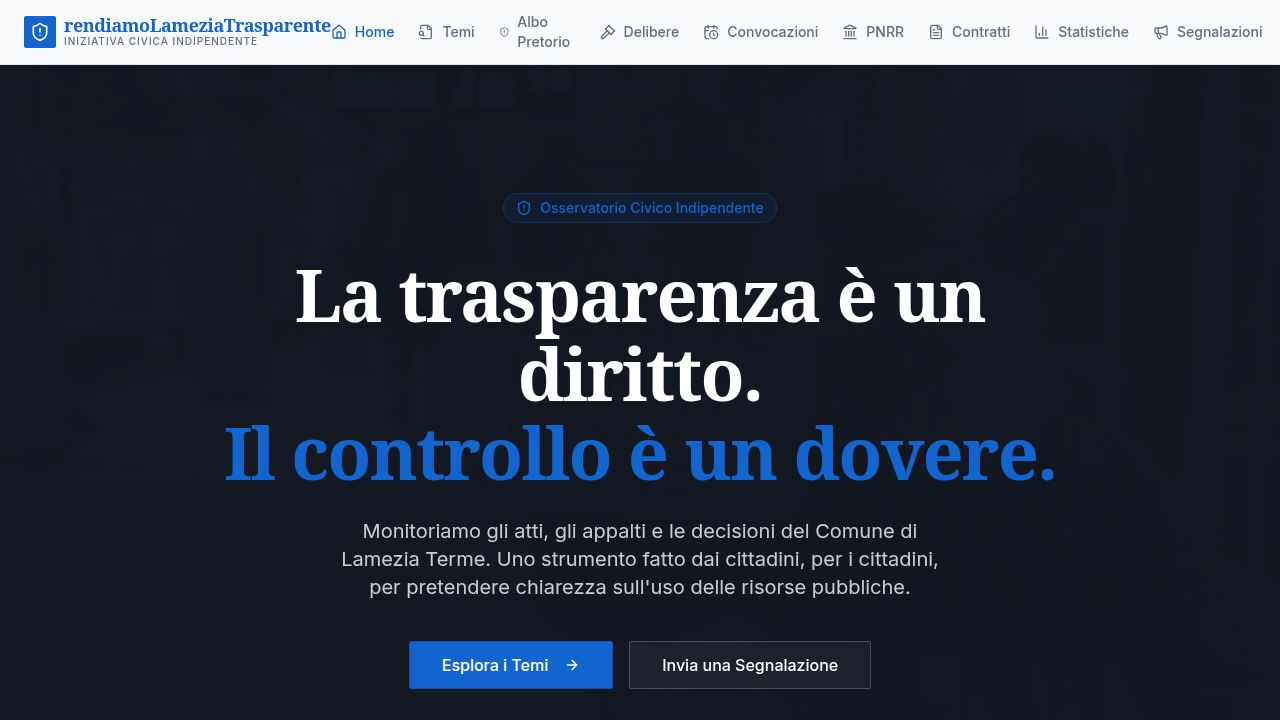
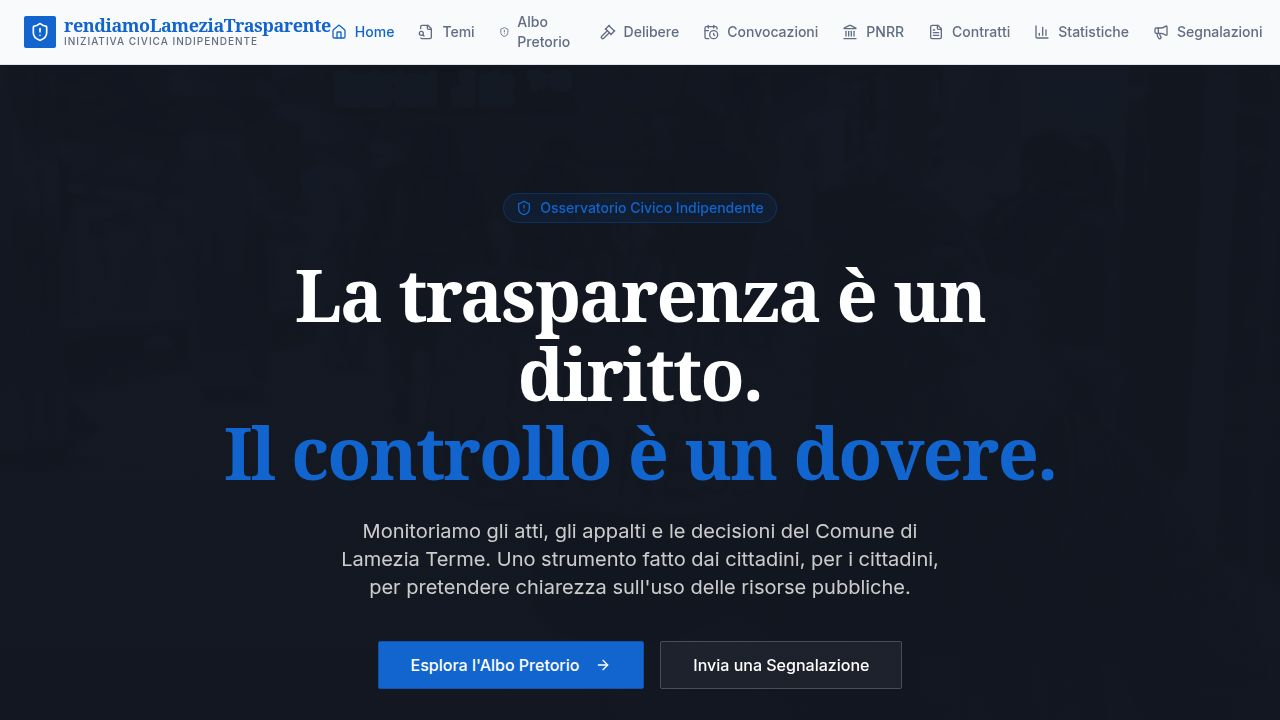
Add web entry point for the subscription center
Task #22: Let citizens open their subscription center from the website.

Previously the subscription center (GET /api/subscriptions?token=...) was
only reachable via token links inside emails. This adds a discoverable web
entry point: a citizen enters their email and is mailed a secure link.

Changes:
- lib/api-spec/openapi.yaml: new POST /subscriptions/request endpoint with
  SubscriptionsLinkRequest (email) and SubscriptionsLinkResponse (message)
  schemas. Regenerated api-client-react + api-zod via orval codegen.
- artifacts/api-server/src/lib/notifications.ts: new sendSubscriptionsLinkEmail
  helper. Emails the subscriptions center link when a follower token exists,
  or a "no subscriptions found" message otherwise (reuses subscriptionsUrl).
- artifacts/api-server/src/routes/themes.ts: new POST /subscriptions/request
  handler. Validates email with RequestSubscriptionsLinkBody, looks up an
  existing follower token via getSubscriptionsByEmail, fires the email
  asynchronously, and always returns the SAME generic JSON message to avoid
  email enumeration. Invalid emails return 400.
- artifacts/lamezia-trasparente: new Subscriptions page (/iscrizioni) with an
  email form using useRequestSubscriptionsLink; registered route in Router.tsx
  and added a "Centro Iscrizioni" link in the footer for discoverability.

Verified: full workspace typecheck passes; endpoint tested via curl (generic
200 for valid email, 400 for invalid); page renders in preview.
[…]

Changed region(s): [[0.2812, 0.8861, 0.6875, 0.9778]]

diff --git a/artifacts/lamezia-trasparente/src/pages/Subscriptions.tsx b/artifacts/lamezia-trasparente/src/pages/Subscriptions.tsx
@@ -1,0 +1,121 @@
+import { useState } from "react";
+import { useRequestSubscriptionsLink } from "@workspace/api-client-react";
+import { toast } from "sonner";
+import { Bell, Mail, CheckCircle2 } from "lucide-react";
+import { Button } from "@/components/ui/button";
+import { Input } from "@/components/ui/input";
+import {
+  Card,
+  CardContent,
+  CardDescription,
+  CardHeader,
+  CardTitle,
+} from "@/components/ui/card";
+
+export function Subscriptions() {
+  const requestLink = useRequestSubscriptionsLink();
+  const [email, setEmail] = useState("");
+  const [sent, setSent] = useState(false);
+
+  const handleSubmit = (e: React.FormEvent) => {
+    e.preventDefault();
+    const value = email.trim();
+    if (!/^[^\s@]+@[^\s@]+\.[^\s@]+$/.test(value)) {
+      toast.error("Email non valida", {
+        description: "Inserisci un indirizzo email corretto.",
+      });
+      return;
+    }
+    requestLink.mutate(
+      { data: { email: value } },
+      {
+        onSuccess: (res) => {
+          setSent(true);
+          toast.success("Richiesta inviata", { description: res.message });
+        },
+        onError: () => {
+          toast.error("Errore", {
+            description: "Non è stato possibile completare la richiesta. Riprova.",
+          });
+        },
+      },
+    );
+  };
+
+  return (
+    <div className="container mx-auto px-4 py-8 md:py-12">
+      <div className="mx-auto max-w-xl">
+        <div className="mb-8 space-y-4 text-center">
+          <div className="mx-auto flex h-16 w-16 items-center justify-center rounded-2xl bg-primary/10 text-primary">
+            <Bell className="h-8 w-8" />
+          </div>
+          <h1 className="text-3xl md:text-4xl font-serif font-bold tracking-tight">
+            Centro Iscrizioni
+          </h1>
+          <p className="text-muted-foreground text-lg">
+            Gestisci i temi che segui. Inserisci la tua email e ti invieremo un
+            link sicuro per vedere e modificare le tue iscrizioni.
+          </p>
+        </div>
+
+        <Card>
+          <CardHeader>
+            <CardTitle className="font-serif">
+              Ricevi il link via email
+            </CardTitle>
+            <CardDescription>
+              Per la tua sicurezza, l'accesso al centro iscrizioni avviene
+              tramite un link inviato al tuo indirizzo email.
+            </CardDescription>
+          </CardHeader>
+          <CardContent>
+            {sent ? (
+              <div className="flex flex-col items-center gap-3 rounded-lg border border-primary/20 bg-primary/5 px-6 py-8 text-center">
+                <CheckCircle2 className="h-10 w-10 text-primary" />
+                <h3 className="text-lg font-semibold">Controlla la tua casella</h3>
+                <p className="text-muted-foreground text-sm">
+                  Se l'indirizzo ha iscrizioni attive, riceverai un'email con il
+                  link per gestirle. Controlla anche la cartella spam.
+                </p>
+                <Button
+                  variant="outline"
+                  onClick={() => {
+                    setSent(false);
+                    setEmail("");
+                  }}
+                >
+                  Usa un altro indirizzo
+                </Button>
+              </div>
+            ) : (
+              <form onSubmit={handleSubmit} className="space-y-4">
+                <div className="relative">
+                  <Mail className="absolute left-3 top-1/2 h-4 w-4 -translate-y-1/2 text-muted-foreground" />
+                  <Input
+                    type="email"
+                    inputMode="email"
+                    autoComplete="email"
+                    placeholder="[email redacted]"
+                    value={email}
+                    onChange={(e) => setEmail(e.target.value)}
+                    className="pl-9"
+                    aria-label="Indirizzo email"
+                    required
+                  />
+                </div>
+                <Button
+                  type="submit"
+                  className="w-full gap-2"
+                  disabled={requestLink.isPending}
+                >
+                  <Mail className="h-4 w-4" />
+                  {requestLink.isPending ? "Invio in corso…" : "Inviami il link"}
+                </Button>
+              </form>
+            )}
+          </CardContent>
+        </Card>
+      </div>
+    </div>
+  );
+}

diff --git a/artifacts/api-server/src/lib/notifications.ts b/artifacts/api-server/src/lib/notifications.ts
@@ -64,6 +64,60 @@ export async function sendFollowConfirmationEmail(params: {
 }
 
 /**
+ * Emails a citizen a secure link to their subscription center.
+ *
+ * When the address follows at least one theme, `token` is that follower's
+ * existing unsubscribe token and the email contains a link to the center.
+ * When the address follows nothing, `token` is null and the email explains
+ * that no subscriptions were found. Either way an email is sent, so the HTTP
+ * response can stay identical and avoid leaking whether an address exists.
+ */
+export async function sendSubscriptionsLinkEmail(params: {
+  email: string;
+  token: string | null;
+}): Promise<void> {
+  if (params.token) {
+    const manage = subscriptionsUrl(params.token);
+    const html = `
+      <div style="font-family: Arial, sans-serif; color: #1a1a1a; line-height: 1.6;">
+        <h2 style="margin-bottom: 8px;">Il tuo centro iscrizioni</h2>
+        <p>Hai richiesto di gestire le tue iscrizioni ai temi di Lamezia Trasparente.</p>
+        <p><a href="${manage}" style="color: #0b5fff;">Apri il centro iscrizioni</a></p>
+        <hr style="border:none;border-top:1px solid #e5e5e5;margin:24px 0;" />
+        <p style="font-size:12px;color:#666;">Se non hai richiesto tu questo messaggio, puoi ignorarlo.</p>
+      </div>`;
+    await sendEmail({
+      to: params.email,
+      subject: "Le tue iscrizioni su Lamezia Trasparente",
+      html,
+      text: `Hai richiesto di gestire le tue iscrizioni ai temi di Lamezia Trasparente.\n\nApri il centro iscrizioni: ${manage}\n\nSe non hai richiesto tu questo messaggio, puoi ignorarlo.`,
+    });
+    return;
+  }
+
+  const home = getBaseUrl();
+  const homeLine = home
+    ? `<p><a href="${home}" style="color: #0b5fff;">Scopri i temi su Lamezia Trasparente</a></p>`
+    : "";
+  const homeText = home ? `\n\nScopri i temi: ${home}` : "";
+  const html = `
+    <div style="font-family: Arial, sans-serif; color: #1a1a1a; line-height: 1.6;">
+      <h2 style="margin-bottom: 8px;">Nessuna iscrizione trovata</h2>
+      <p>Hai richiesto di gestire le tue iscrizioni, ma questo indirizzo non segue al momento nessun tema.</p>
+      <p>Puoi iscriverti ai temi che ti interessano direttamente dalle loro pagine.</p>
+      ${homeLine}
+      <hr style="border:none;border-top:1px solid #e5e5e5;margin:24px 0;" />
+      <p style="font-size:12px;color:#666;">Se non hai richiesto tu questo messaggio, puoi ignorarlo.</p>
+    </div>`;
+  await sendEmail({
+    to: params.email,
+    subject: "Le tue iscrizioni su Lamezia Trasparente",
+    html,
+    text: `Hai richiesto di gestire le tue iscrizioni, ma questo indirizzo non segue al momento nessun tema. Puoi iscriverti ai temi che ti interessano direttamente dalle loro pagine.${homeText}\n\nSe non hai richiesto tu questo messaggio, puoi ignorarlo.`,
+  });
+}
+
+/**
  * Notifies all followers of a theme that new content has been added.
  * Failures are logged and do not interrupt the caller.
  */

diff --git a/artifacts/api-server/src/routes/themes.ts b/artifacts/api-server/src/routes/themes.ts
@@ -13,10 +13,15 @@ import {
   themeFollowersTable,
 } from "@workspace/db";
 import { and, eq, desc, ilike, sql } from "drizzle-orm";
-import { ShareThemeBody, FollowThemeBody } from "@workspace/api-zod";
+import {
+  ShareThemeBody,
+  FollowThemeBody,
+  RequestSubscriptionsLinkBody,
+} from "@workspace/api-zod";
 import {
   notifyThemeFollowers,
   sendFollowConfirmationEmail,
+  sendSubscriptionsLinkEmail,
 } from "../lib/notifications";
 import { requireIngestAuth } from "../middlewares/requireIngestAuth";
 
@@ -851,6 +856,28 @@ router.get("/subscriptions", async (req, res) => {
         subscriptions,
       }),
     );
+});
+
+router.post("/subscriptions/request", async (req, res) => {
+  const parsed = RequestSubscriptionsLinkBody.safeParse(req.body);
+
+  // A generic response is returned regardless of outcome so the endpoint
+  // never reveals whether an address has subscriptions (no enumeration).
+  const genericMessage =
+    "Se l'indirizzo ha iscrizioni attive, riceverai un'email con il link per gestirle.";
+
+  if (!parsed.success) {
+    res.status(400).json({ error: "Indirizzo email non valido" });
+    return;
+  }
+
+  const email = parsed.data.email.trim().toLowerCase();
+
+  const { token } = await getSubscriptionsByEmail(email);
+
+  void sendSubscriptionsLinkEmail({ email, token });
+
+  res.status(200).json({ message: genericMessage });
 });
 
 router.post("/subscriptions/unsubscribe", async (req, res) => {

diff --git a/artifacts/lamezia-trasparente/src/Router.tsx b/artifacts/lamezia-trasparente/src/Router.tsx
@@ -11,6 +11,7 @@ import { SedutaDetail } from "./pages/SedutaDetail";
 import { Pnrr } from "./pages/Pnrr";
 import { Reports } from "./pages/Reports";
 import { Statistics } from "./pages/Statistics";
+import { Subscriptions } from "./pages/Subscriptions";
 import NotFound from "./pages/not-found";
 
 export function Router() {
@@ -28,6 +29,7 @@ export function Router() {
         <Route path="/pnrr" component={Pnrr} />
         <Route path="/segnalazioni" component={Reports} />
         <Route path="/statistiche" component={Statistics} />
+        <Route path="/iscrizioni" component={Subscriptions} />
         <Route component={NotFound} />
       </Switch>
     </MainLayout>

diff --git a/artifacts/lamezia-trasparente/src/components/layout/Footer.tsx b/artifacts/lamezia-trasparente/src/components/layout/Footer.tsx
@@ -40,6 +40,7 @@ export function Footer() {
             <h4 className="font-bold font-serif text-foreground">Partecipa</h4>
             <ul className="space-y-2 text-sm text-muted-foreground">
               <li><a href="/segnalazioni" className="hover:text-primary transition-colors">Invia Segnalazione</a></li>
+              <li><a href="/iscrizioni" className="hover:text-primary transition-colors">Centro Iscrizioni</a></li>
               <li><a href="#" className="hover:text-primary transition-colors">Metodologia</a></li>
               <li><a href="#" className="hover:text-primary transition-colors">Chi Siamo</a></li>
               <li><a href="#" className="hover:text-primary transition-colors">Contattaci</a></li>